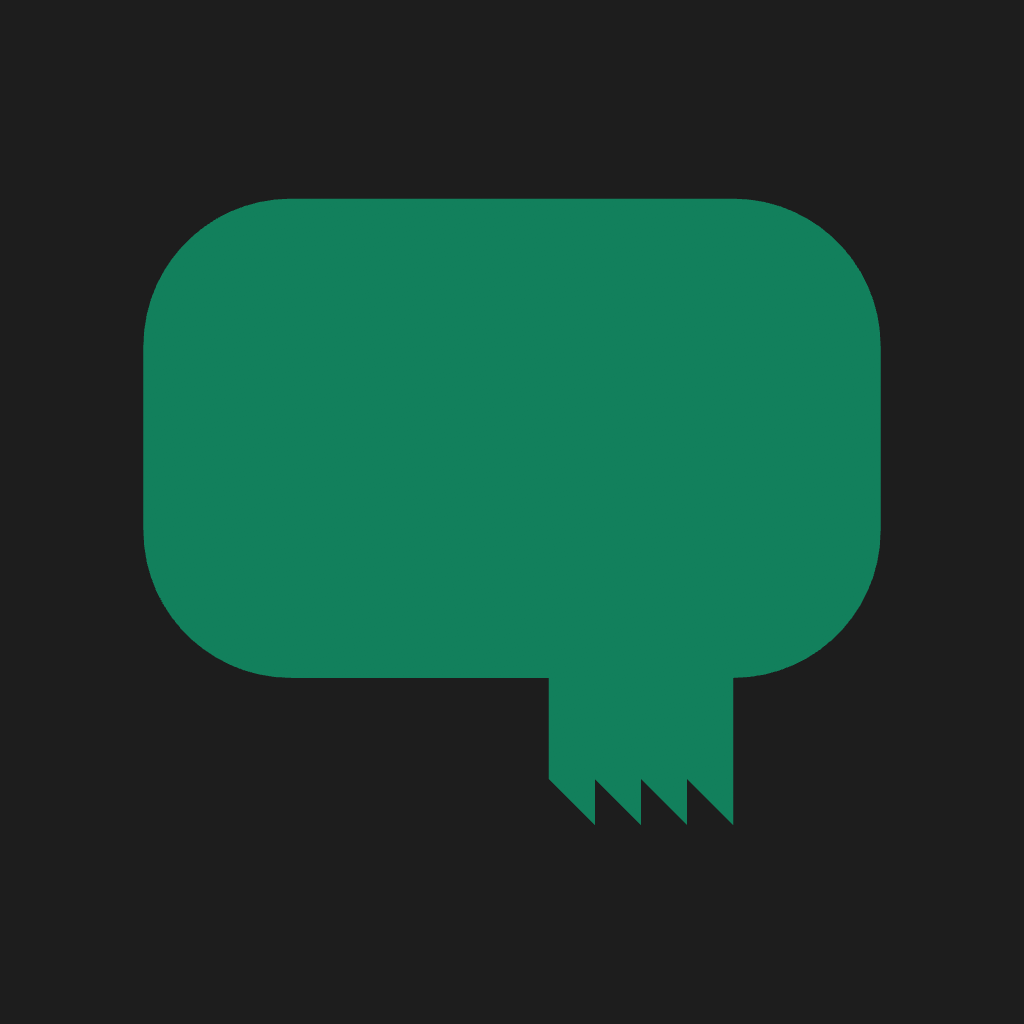
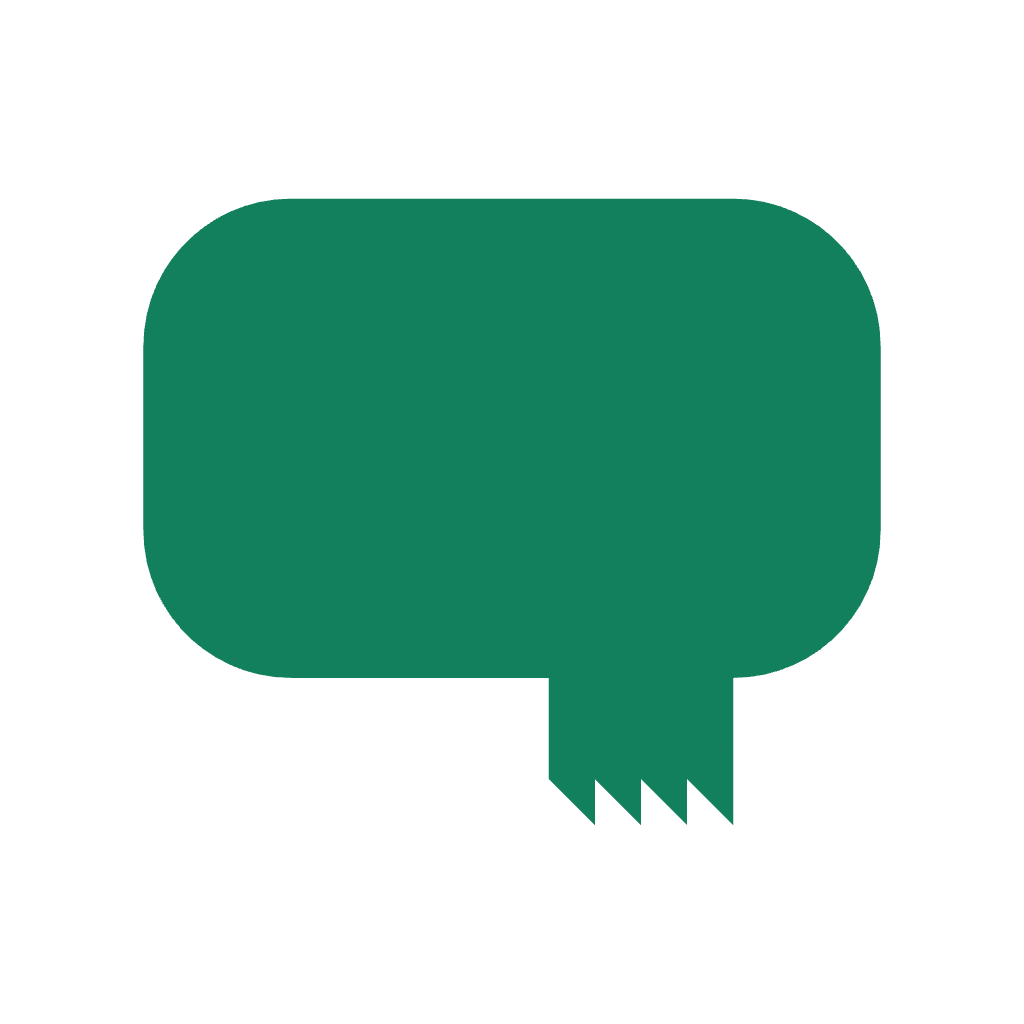
fix(assets): deliver a genuinely transparent brand mark master

diff --git a/ASSETS.md b/ASSETS.md
@@ -8,7 +8,8 @@ none exist, so every slot is sourced new.
 
 | Slot | File | Family / Variant | Status |
 |---|---|---|---|
-| A-001 | assets/sabi.riv (artboard BrandMark) | Brand mark / master | Done |
+| A-001 | assets/brand-mark/master.png (+ assets/sabi.riv artboard `BrandMark`) | Brand mark / master | Done |
+| A-012 | assets/brand-mark/transparent.png (+ assets/sabi.riv artboard `BrandMark`) | Brand mark / transparent | Done |
 | A-002 | assets/app-icon/app-icon.png | Brand mark / app-icon | Done |
 | A-003 | assets/splash/splash.png | Brand mark / splash | Done |
 | A-004 | assets/sabi.riv (artboard EmptyState) | Empty-state illustration / single | Done |
@@ -68,7 +69,8 @@ bubble. Transparent background. Square 1:1.
 **Variants**
 | Variant | Delta (by role) | Size |
 |---|---|---|
-| master | None (canonical) | 1024 |
+| master | None (canonical); transparent ground, real alpha | 1024 |
+| transparent | fill → ink #12805C on transparent; same art as master, delivered for consumers that name the form explicitly (branding.md "Required mark forms") | 1024 |
 | one-colour | fill → ink #12805C, no other colour | 1024 |
 | knockout | fill → knockout #FFFFFF on transparent | 1024 |
 | dark | fill → ink dark #3FA981 on transparent | 1024 |
@@ -80,6 +82,17 @@ bubble. Transparent background. Square 1:1.
 
 **Open questions**
 - Lockup variants need the wordmark set in a real typeface; the generator must not draw the letters.
+
+**Alpha delivery (master / transparent)**
+The master and transparent variants are rendered from the `BrandMark` artboard in `assets/sabi.riv`
+with the Rive CLI (`rive . --screenshot=... --artboard=BrandMark --viewport=1024x1024`), which
+composites onto its fixed `#1D1D1D` clear and cannot write alpha. Alpha is then recovered from that
+known clear colour — the fill's green channel separates most strongly from `#1D1D1D`, so
+`A = (O_green - 29) / 99` with the source colour un-premultiplied back out — the same keying method
+already used for the icon previews. `assets/brand-mark/master.png` and
+`assets/brand-mark/transparent.png` therefore carry a real 8-bit alpha channel (corner α = 0, solid
+fill α = 255, antialiased edges soft) and no baked background field. The `.riv` artboard itself
+carries no background fill, so it is transparent by construction.
 
 ## Empty-state illustration — generation prompt
 

diff --git a/assets/README.md b/assets/README.md
@@ -24,7 +24,7 @@ former per-slot `.riv` copies have been removed; nothing is duplicated per slot.
 
 | Slot | Ledger file | Delivered | Rive artboard |
 |---|---|---|---|
-| A-001 | `assets/sabi.riv` (artboard) | `assets/sabi.riv` + `brand-mark/master.png` | `BrandMark` |
+| A-001 | `assets/sabi.riv` (artboard) | `assets/sabi.riv` + `brand-mark/master.png` + `brand-mark/transparent.png` | `BrandMark` |
 | A-002 | `app-icon/app-icon.png` | `app-icon/app-icon.png` (1024×1024) | `AppIcon` |
 | A-003 | `splash/splash.png` | `splash/splash.png` (1440×2560) | `Splash` |
 | A-004 | `assets/sabi.riv` (artboard) | `assets/sabi.riv` + `illustrations/empty-state.png` | `EmptyState` |
@@ -112,9 +112,10 @@ device). Both fonts are SIL OFL 1.1 — see `OFL.txt` in each directory. Source:
 ## Known constraints
 
 - **Raster previews are opaque.** The CLI screenshot renders onto a fixed `#1D1D1D` clear; it cannot
-  write alpha. `brand-mark/master.png`, the illustration/animation `.png`s and the raw icon captures
-  are previews only. The icon previews under `icons/` were keyed to transparency from the raw
-  capture; true transparency lives in the `.riv` (the artboards carry no background fill).
+  write alpha. The illustration and animation `.png`s are previews only. The icon previews under
+  `icons/` and the **brand-mark master and transparent** PNGs were keyed to transparency from the raw
+  capture (the fill's green channel recovery, A = (green−29)/99 against the known clear, then
+  un-premultiplied); true transparency lives in the `.riv` (the artboards carry no background fill).
 - **App icon is full-bleed.** For the same reason, `app-icon.png` is a full square of app field ink
   with the white mark; the 22% squircle container is kept in the geometry for masked use. Platform
   icon masks supply the rounded corners.
